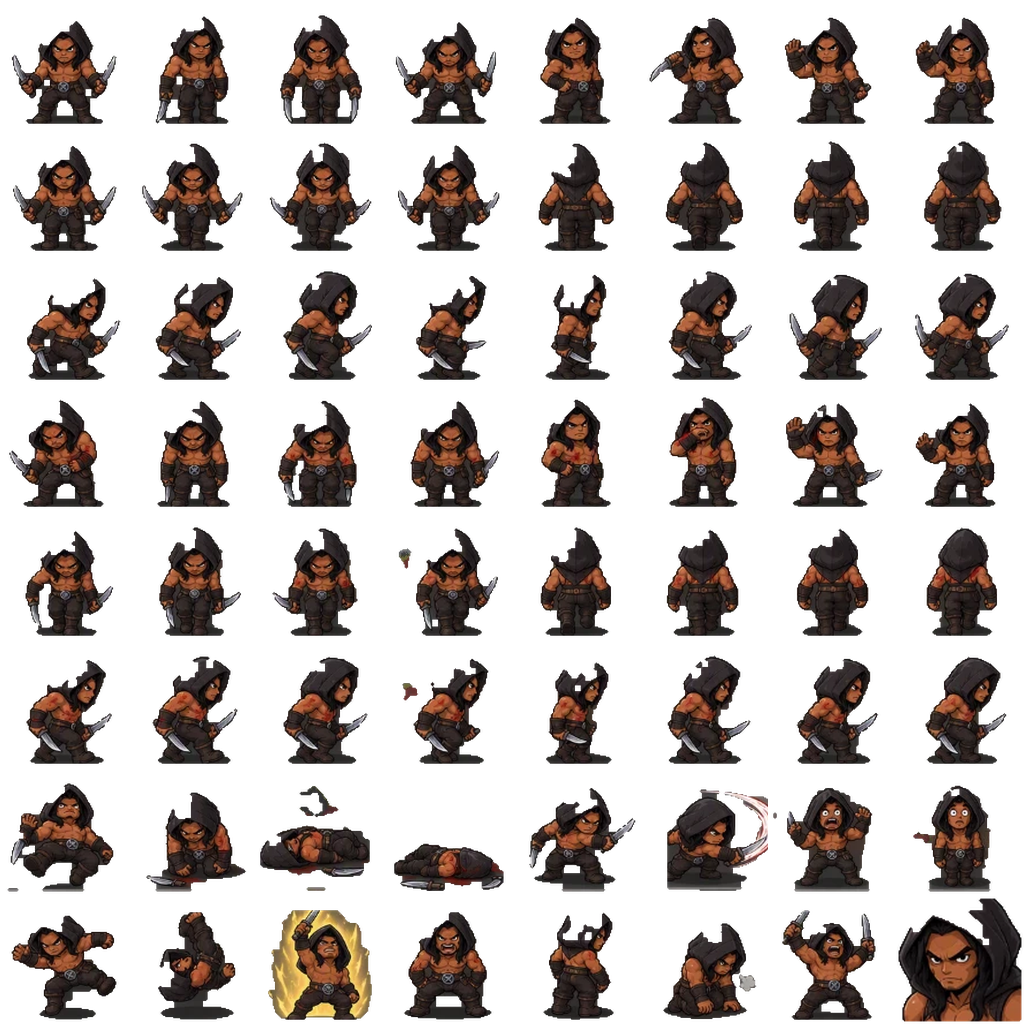
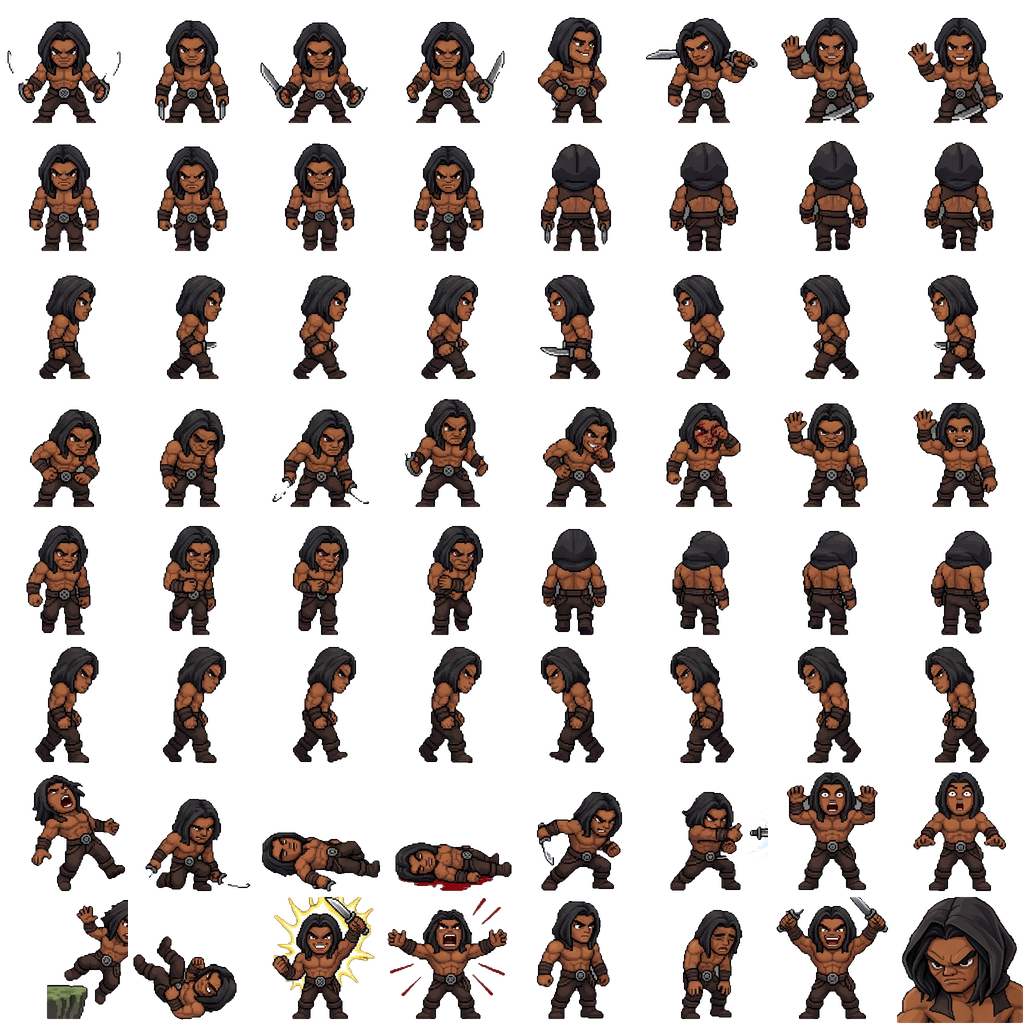
Atlas del bárbaro con la hoja nueva: fondo de tablero, oeste propio y poses de muerte/caída
Claude-Session: https://claude.ai/code/session_011NYHqmTjtGTs27T8dwrHLE

Changed region(s): [[0.0, 0.0, 1.0, 1.0]]

diff --git a/src/atlas.ts b/src/atlas.ts
@@ -42,8 +42,8 @@ export const POSE = {
   PORTRAIT: 63,
 } as const;
 
-/** Primer fotograma (el de "mirando") de cada dirección; el oeste es el este reflejado. */
-const DIRECTION_BASE = { S: 8, N: 12, E: 16, O: 16 } as const;
+/** Primer fotograma (el de "mirando") de cada dirección; la hoja trae el oeste dibujado. */
+const DIRECTION_BASE = { S: 8, N: 12, E: 16, O: 20 } as const;
 /** Desplazamiento del bloque equivalente cuando el personaje está herido. */
 const HURT_OFFSET = 24;
 /** Ciclo de marcha sobre los tres fotogramas de movimiento: paso A, pasada, paso B, pasada. */
@@ -62,13 +62,13 @@ export function hasAtlas(id: string): boolean {
 
 export interface FramePick {
   index: number;
-  /** Dibujar reflejado (el oeste usa los fotogramas del este). */
+  /** Dibujar reflejado (para atlas que solo traen un lado). */
   mirror: boolean;
 }
 
 /** Elige el fotograma según el estado del personaje. */
 export function pickFrame(look: Pick<WarriorLook, 'facing' | 'moving' | 'walkAngle' | 'hurt' | 'alerted' | 'pose'>): FramePick {
-  const mirror = look.facing === 'O';
+  const mirror = false;
   if (look.pose !== undefined) return { index: look.pose, mirror: false };
   const hurt = look.hurt === true;
   const base = DIRECTION_BASE[look.facing] + (hurt ? HURT_OFFSET : 0);

diff --git a/tests/atlas.test.ts b/tests/atlas.test.ts
@@ -9,9 +9,9 @@ describe('pickFrame', () => {
     expect(pickFrame({ ...base, alerted: true }).index).toBe(POSE.ALERT);
     expect(pickFrame({ ...base, hurt: true }).index).toBe(POSE.HURT_REST);
   });
-  it('el oeste es el este reflejado', () => {
+  it('el oeste tiene sus propios fotogramas', () => {
     const west = pickFrame({ ...base, facing: 'O' });
-    expect(west).toEqual({ index: 16, mirror: true });
+    expect(west).toEqual({ index: 20, mirror: false });
   });
   it('el ciclo de marcha recorre cuatro fases', () => {
     const idx = [0, 1.6, 3.2, 4.8].map((a) => pickFrame({ ...base, facing: 'N', moving: true, walkAngle: a }).index);

diff --git a/tools/slice_atlas.py b/tools/slice_atlas.py
@@ -1,9 +1,9 @@
 #!/usr/bin/env python3
 """
-Convierte una hoja de sprites 8×8 generada con IA (fondo gris, con los números de cada celda) en un
+Convierte una hoja de sprites 8×8 generada con IA (fondo de tablero gris pintado, con los números de cada celda) en un
 atlas limpio con transparencia: 8×8 fotogramas de 128×128 con los pies anclados en el mismo punto.
 
-Uso:  python3 tools/slice_atlas.py art/barbaro-hoja-origen.webp images/atlas_barbaro.png
+Uso:  python3 tools/slice_atlas.py art/barbaro-hoja-origen.jpg images/atlas_barbaro.png
 Necesita: pip install pillow numpy scipy
 """
 import json
@@ -17,23 +17,27 @@ CELLS = 8
 OUT = 128            # lado de cada fotograma de salida
 BASELINE = 122       # fila donde apoyan los pies
 CENTER_X = 64        # columna donde se centra el personaje
-SCALE = 1.15         # factor sobre el tamaño nativo de la celda
-INSET = 3            # margen que se descarta en cada celda (bordes de la cuadrícula)
-THRESHOLD = 34       # distancia de color al fondo para considerarlo personaje
+SCALE = 0.50         # factor sobre el tamaño nativo de la celda (2048/8 = 256 px → 128)
+INSET = 4            # margen que se descarta en cada celda (bordes de la cuadrícula)
 UNANCHORED = {63}    # el retrato se encaja sin anclar los pies
 
 
-def background_color(rgb: np.ndarray) -> np.ndarray:
-    h, w, _ = rgb.shape
-    ring = np.concatenate([rgb[:6].reshape(-1, 3), rgb[-6:].reshape(-1, 3), rgb[:, :6].reshape(-1, 3), rgb[:, -6:].reshape(-1, 3)])
-    return np.median(ring, axis=0)
-
-
 def extract(rgb: np.ndarray) -> np.ndarray:
-    """Máscara (float 0..1) del personaje dentro de una celda."""
-    bg = background_color(rgb)
-    dist = np.sqrt(((rgb.astype(float) - bg) ** 2).sum(axis=2))
-    fg = dist > THRESHOLD
+    """Máscara (float 0..1) del personaje dentro de una celda.
+
+    El fondo de la hoja es un tablero gris (dos tonos casi sin color) pintado en la imagen: se detecta
+    como gris poco saturado y claridad media, y solo cuenta si está conectado con el borde de la celda.
+    """
+    pix = rgb.astype(int)
+    sat = pix.max(axis=2) - pix.min(axis=2)
+    lum = pix.mean(axis=2)
+    checker = (sat < 18) & (lum > 90) & (lum < 150)
+    checker = ndi.binary_closing(checker, structure=np.ones((3, 3)), iterations=1) | checker
+    seeds = np.zeros_like(checker)
+    seeds[0, :] = seeds[-1, :] = seeds[:, 0] = seeds[:, -1] = True
+    bg = ndi.binary_propagation(seeds & checker, mask=checker)
+    # Los cuadros blancos del borde de la cuadrícula
+    fg = ~ndi.binary_dilation(bg, iterations=1)
     # Quita los números de la esquina y las motas sueltas: solo se conservan componentes grandes
     labels, n = ndi.label(fg)
     keep = np.zeros_like(fg)
@@ -41,7 +45,7 @@ def extract(rgb: np.ndarray) -> np.ndarray:
     biggest = max(sizes) if n else 0
     for i, size in enumerate(sizes, start=1):
         ys, xs = np.where(labels == i)
-        in_label_box = xs.max() < 40 and ys.max() < 26
+        in_label_box = xs.max() < 70 and ys.max() < 44
         if size >= max(60, biggest * 0.01) and not in_label_box:
             keep |= labels == i
     # Rellena los huecos pequeños (reflejos dentro de la ropa) pero no los grandes (entre brazo y cuerpo)
@@ -59,7 +63,7 @@ def extract(rgb: np.ndarray) -> np.ndarray:
     labels, n = ndi.label(keep)
     for i in range(1, n + 1):
         ys, xs = np.where(labels == i)
-        if xs.max() < 40 and ys.max() < 26:
+        if xs.max() < 70 and ys.max() < 44:
             keep[labels == i] = False
             continue
         # Salpicaduras de sangre sueltas (rojizas y pequeñas)
